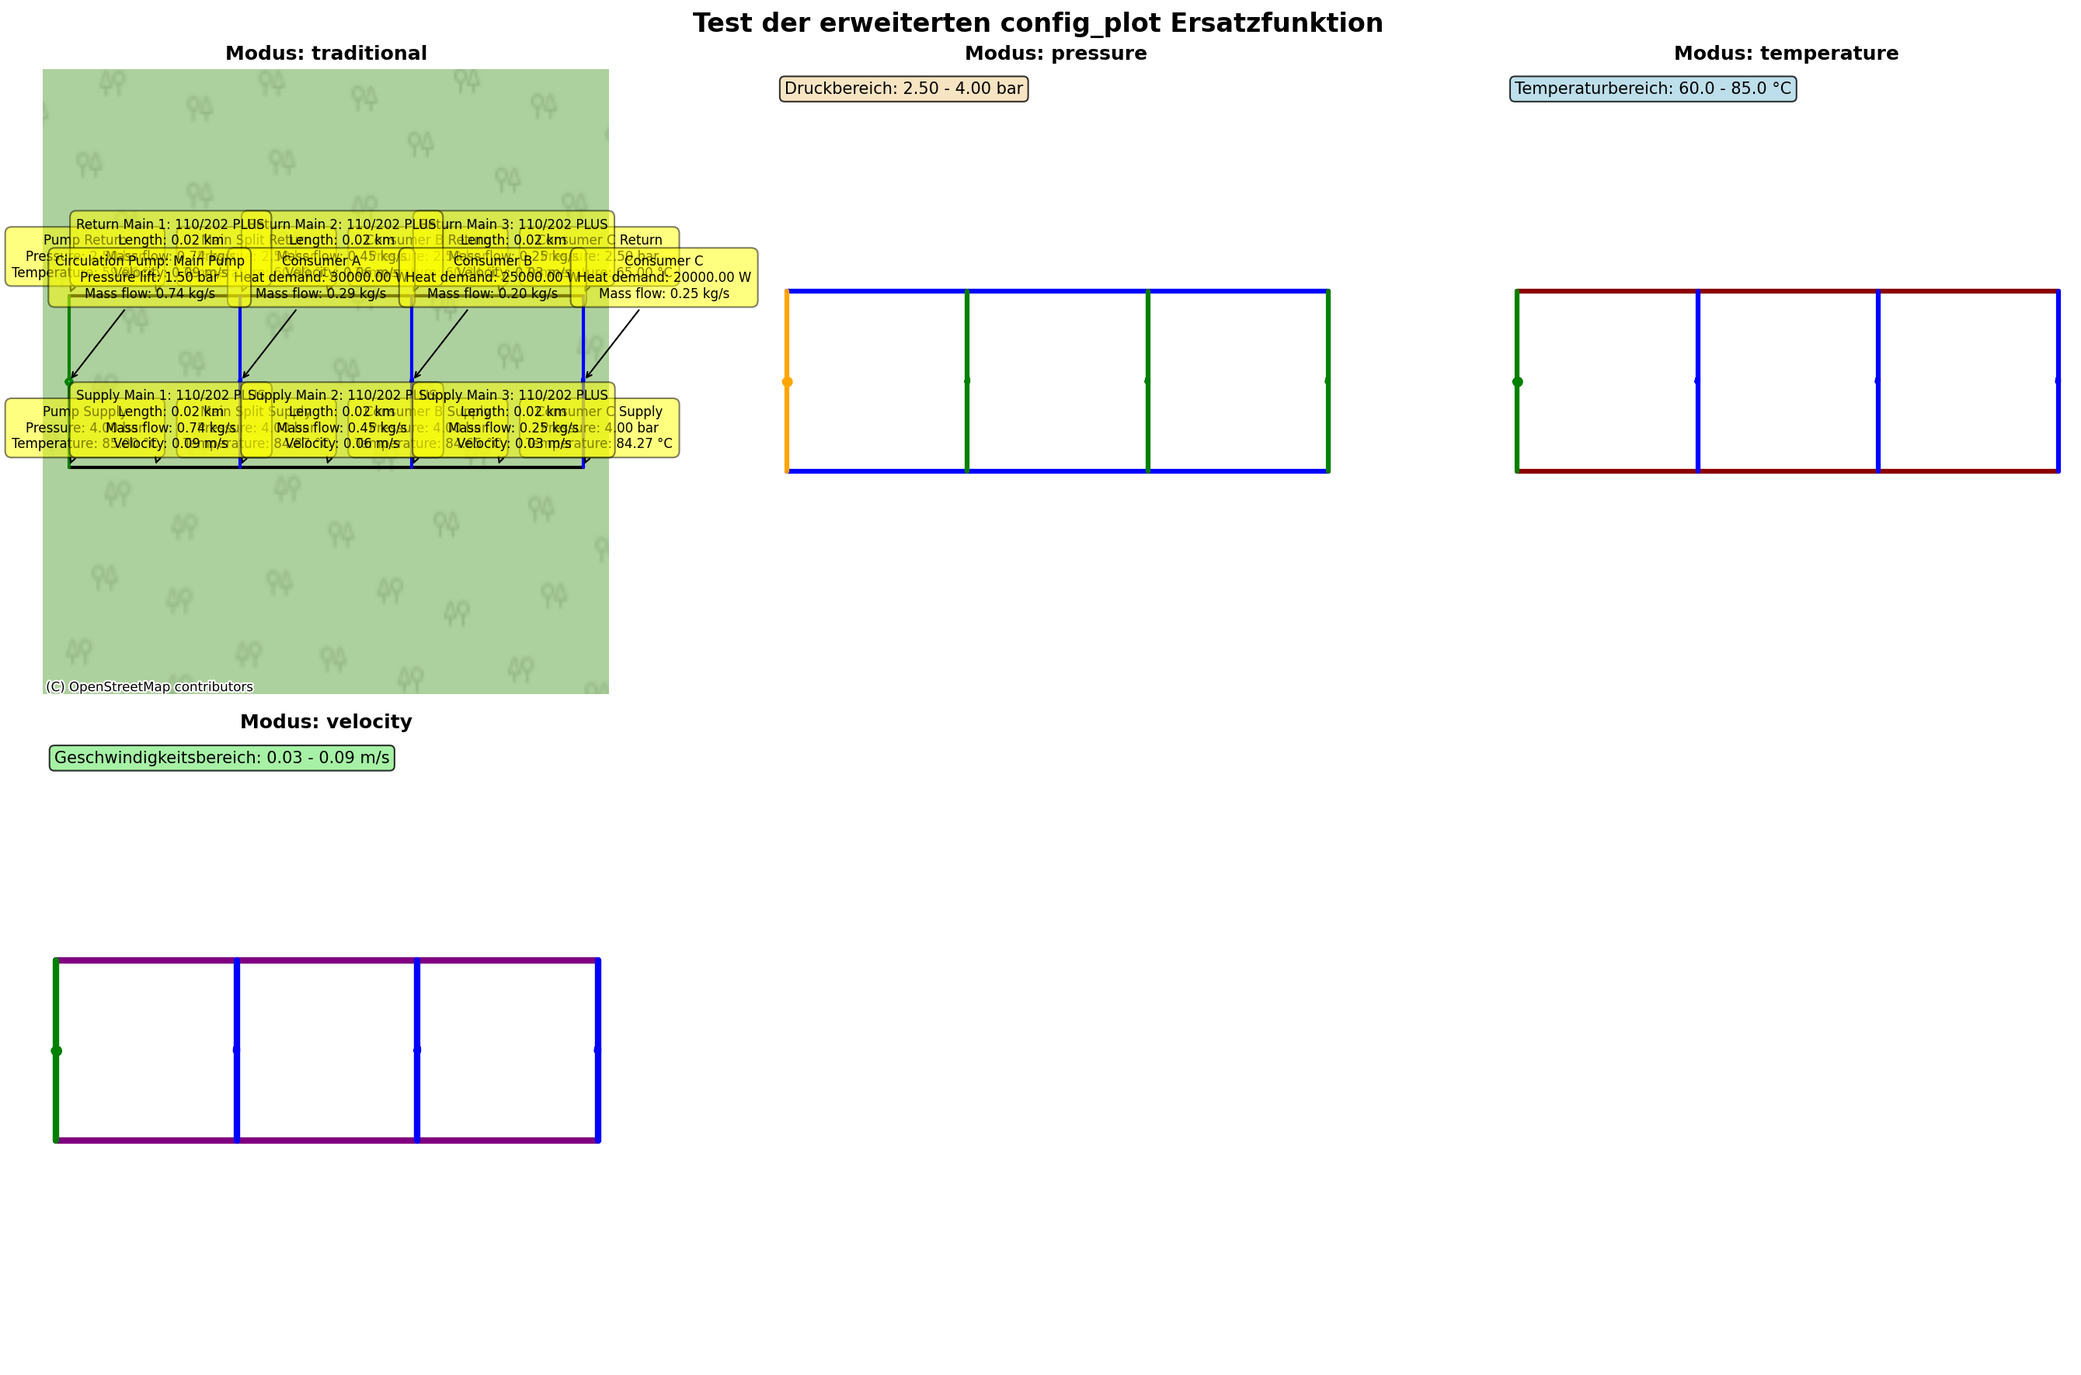
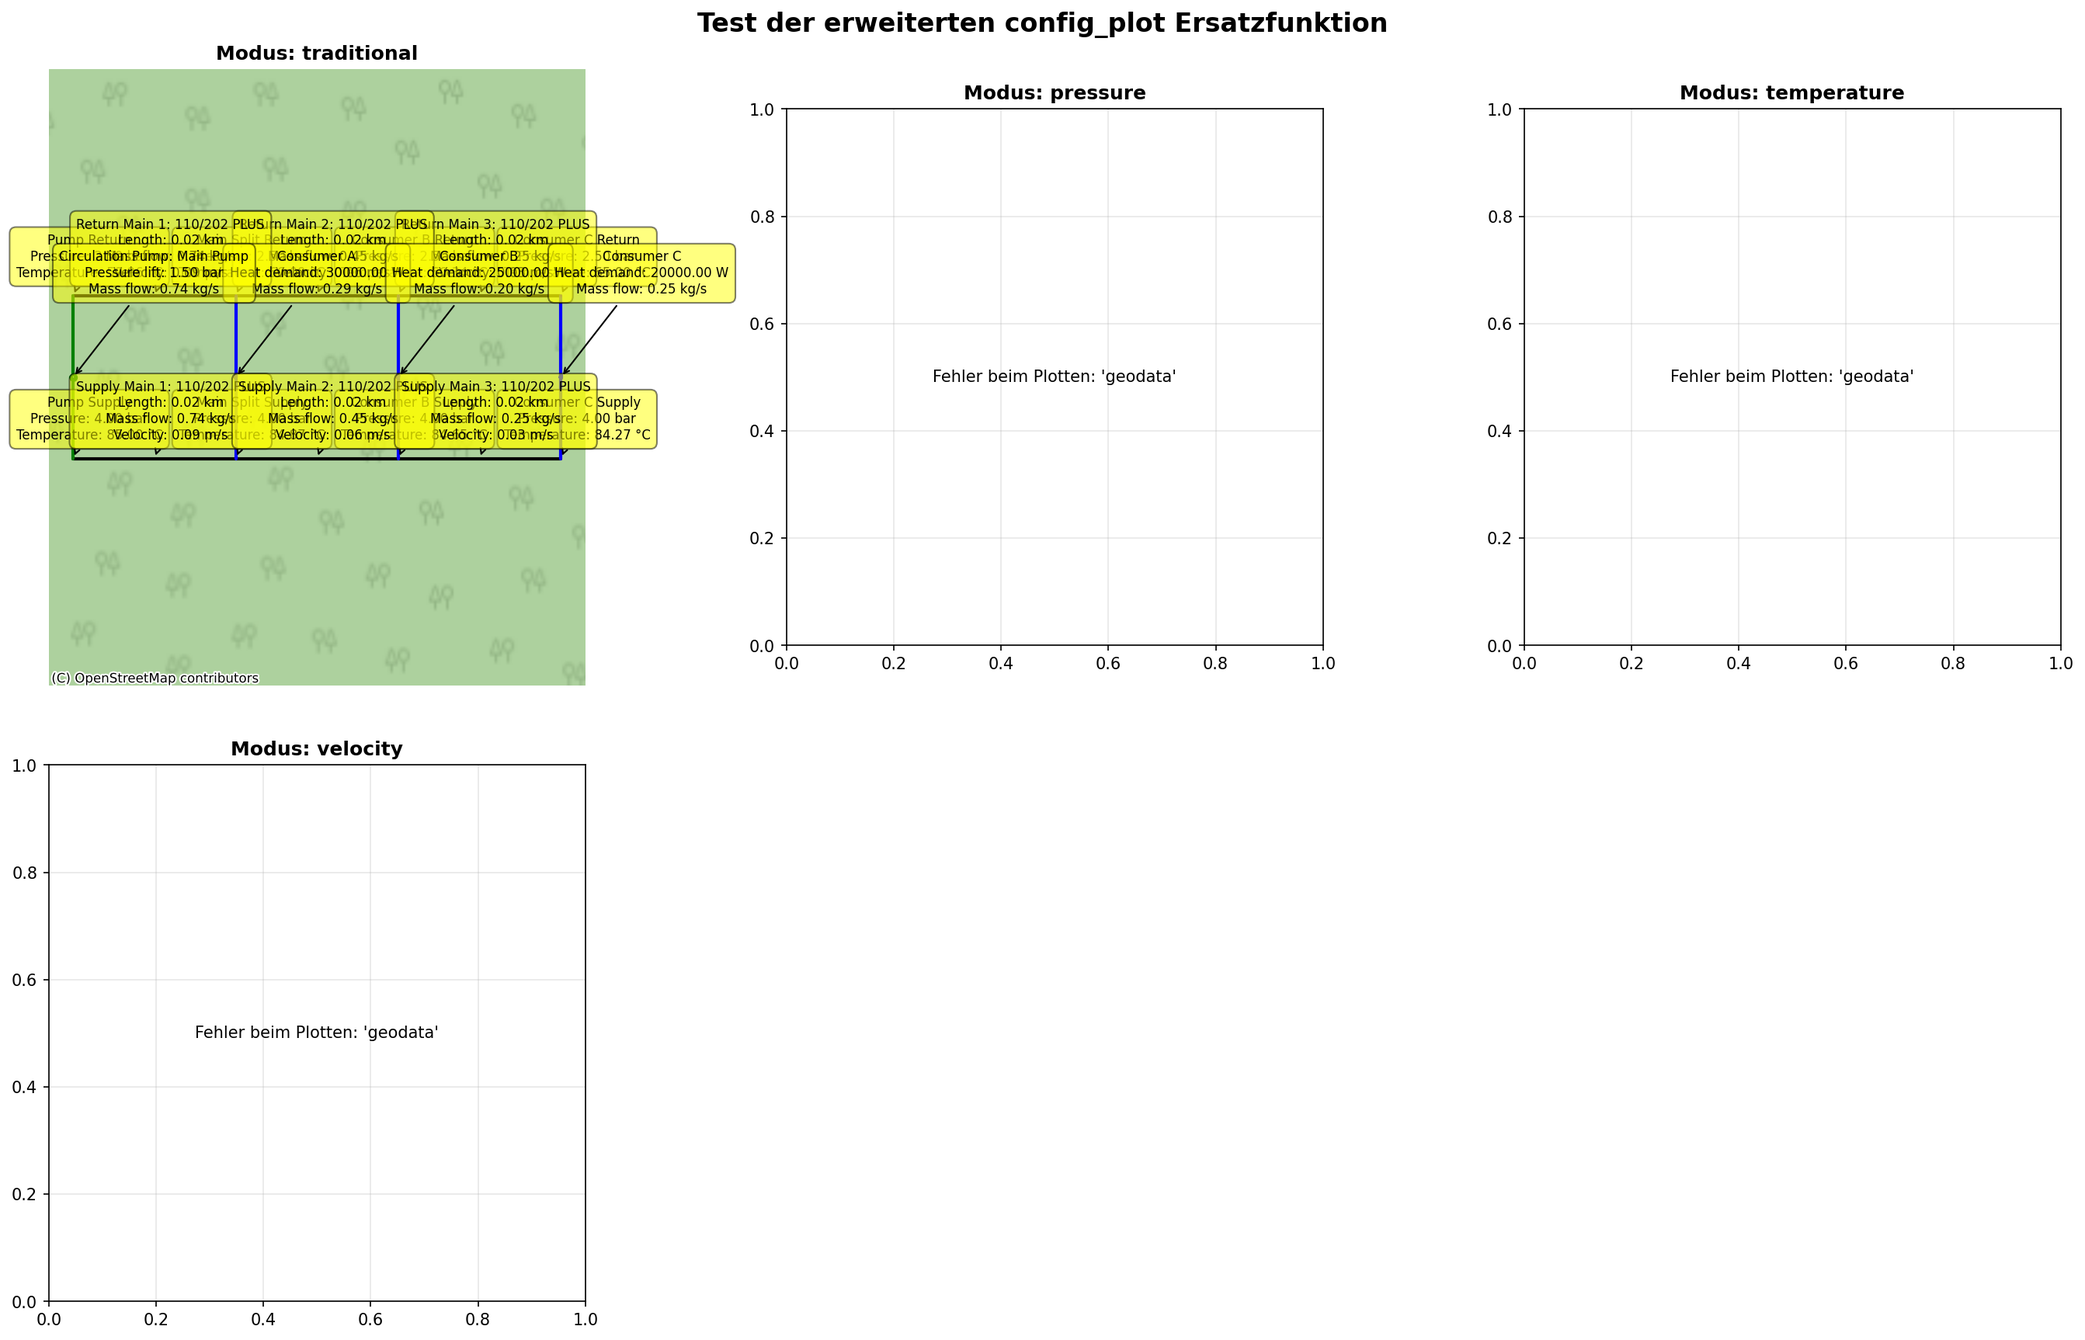
Enhance advanced plots with data-driven color mapping for pressure, temperature, and velocity visualizations

diff --git a/src/districtheatingsim/net_simulation_pandapipes/advanced_plots.py b/src/districtheatingsim/net_simulation_pandapipes/advanced_plots.py
@@ -28,7 +28,7 @@ from typing import Optional, Dict, List
 
 
 def create_pressure_plot(net, ax: Optional[plt.Axes] = None, show_colorbar: bool = True):
-    """Create a pressure-based plot with statistics."""
+    """Create a pressure-based plot with data-driven colors."""
     if ax is None:
         fig, ax = plt.subplots(figsize=(12, 8))
     
@@ -39,22 +39,79 @@ def create_pressure_plot(net, ax: Optional[plt.Axes] = None, show_colorbar: bool
         return ax
     
     try:
-        # Use simple_plot with pressure-focused colors
-        pp_plot.simple_plot(net, ax=ax, show_plot=False,
-                           junction_size=0.02, 
-                           pipe_width=3,
-                           heat_consumer_size=0.1, 
-                           pump_size=0.1,
-                           junction_color='red',  # High pressure color
-                           pipe_color='blue',
-                           heat_consumer_color='green',
-                           pump_color='orange')
+        import matplotlib.cm as cm
         
-        ax.set_title('Druckverteilung im Fernwärmenetz', fontsize=14, fontweight='bold')
+        # Get pressure data
+        pressures = net.res_junction['p_bar']
+        p_min, p_max = pressures.min(), pressures.max()
+        
+        # Create pressure colormap (blue = low, red = high)
+        pressure_cmap = cm.get_cmap('coolwarm')
+        pressure_norm = plt.Normalize(vmin=p_min, vmax=p_max)
+        
+        # Plot junctions with pressure-based colors
+        for idx, junction in net.junction.iterrows():
+            if hasattr(junction, 'geodata') and junction.geodata is not None:
+                x, y = junction.geodata
+                pressure = net.res_junction.loc[idx, 'p_bar']
+                color = pressure_cmap(pressure_norm(pressure))
+                ax.scatter(x, y, c=[color], s=100, edgecolors='black', linewidth=1, zorder=5)
+        
+        # Plot pipes with pressure gradient colors
+        if hasattr(net, 'res_pipe') and not net.res_pipe.empty:
+            for idx, pipe in net.pipe.iterrows():
+                from_geo = net.junction.loc[pipe['from_junction'], 'geodata']
+                to_geo = net.junction.loc[pipe['to_junction'], 'geodata']
+                if from_geo is not None and to_geo is not None:
+                    # Use average pressure of connected junctions
+                    p_from = net.res_junction.loc[pipe['from_junction'], 'p_bar']
+                    p_to = net.res_junction.loc[pipe['to_junction'], 'p_bar']
+                    avg_pressure = (p_from + p_to) / 2
+                    pipe_color = pressure_cmap(pressure_norm(avg_pressure))
+                    
+                    ax.plot([from_geo[0], to_geo[0]], [from_geo[1], to_geo[1]], 
+                           color=pipe_color, linewidth=4, alpha=0.8, zorder=2)
+        
+        # Plot heat consumers
+        if hasattr(net, 'heat_consumer') and len(net.heat_consumer) > 0:
+            for idx, consumer in net.heat_consumer.iterrows():
+                from_geo = net.junction.loc[consumer['from_junction'], 'geodata']
+                to_geo = net.junction.loc[consumer['to_junction'], 'geodata']
+                if from_geo is not None and to_geo is not None:
+                    mid_x = (from_geo[0] + to_geo[0]) / 2
+                    mid_y = (from_geo[1] + to_geo[1]) / 2
+                    ax.scatter(mid_x, mid_y, c='green', s=200, marker='s', 
+                             edgecolors='black', linewidth=2, zorder=6)
+        
+        # Plot pumps
+        if hasattr(net, 'circ_pump_const_pressure') and len(net.circ_pump_const_pressure) > 0:
+            for idx, pump in net.circ_pump_const_pressure.iterrows():
+                from_geo = net.junction.loc[pump['from_junction'], 'geodata']
+                to_geo = net.junction.loc[pump['to_junction'], 'geodata']
+                if from_geo is not None and to_geo is not None:
+                    mid_x = (from_geo[0] + to_geo[0]) / 2
+                    mid_y = (from_geo[1] + to_geo[1]) / 2
+                    ax.scatter(mid_x, mid_y, c='orange', s=200, marker='o', 
+                             edgecolors='black', linewidth=2, zorder=6)
+        
+        # Set axis limits
+        coords = net.junction_geodata
+        if not coords.empty:
+            margin = 5
+            ax.set_xlim(coords.x.min() - margin, coords.x.max() + margin)
+            ax.set_ylim(coords.y.min() - margin, coords.y.max() + margin)
+        
+        # Add colorbar
+        if show_colorbar and p_max > p_min:
+            sm = cm.ScalarMappable(cmap=pressure_cmap, norm=pressure_norm)
+            sm.set_array([])
+            cbar = plt.colorbar(sm, ax=ax, shrink=0.8)
+            cbar.set_label('Druck [bar]', fontsize=12)
+        
+        ax.set_title('Druckverteilung im Fernwärmenetz (datenbasiert)', fontsize=14, fontweight='bold')
         
         # Add pressure statistics
-        pressures = net.res_junction['p_bar']
-        stats_text = f'Druckbereich: {pressures.min():.2f} - {pressures.max():.2f} bar'
+        stats_text = f'Druckbereich: {p_min:.2f} - {p_max:.2f} bar'
         ax.text(0.02, 0.98, stats_text, transform=ax.transAxes, 
                 bbox=dict(boxstyle='round', facecolor='wheat', alpha=0.8),
                 verticalalignment='top')
@@ -69,7 +126,7 @@ def create_pressure_plot(net, ax: Optional[plt.Axes] = None, show_colorbar: bool
 
 
 def create_temperature_plot(net, ax: Optional[plt.Axes] = None):
-    """Create a temperature-based plot with statistics."""
+    """Create a temperature-based plot with data-driven colors."""
     if ax is None:
         fig, ax = plt.subplots(figsize=(12, 8))
     
@@ -80,22 +137,86 @@ def create_temperature_plot(net, ax: Optional[plt.Axes] = None):
         return ax
     
     try:
-        # Use simple plot with temperature-based colors
-        pp_plot.simple_plot(net, ax=ax, show_plot=False,
-                           junction_size=0.02,
-                           pipe_width=3, 
-                           heat_consumer_size=0.1,
-                           pump_size=0.1,
-                           junction_color='red',     # Hot color for supply
-                           pipe_color='darkred',     # Temperature focus
-                           heat_consumer_color='blue',  # Cold color for consumers
-                           pump_color='green')
+        import matplotlib.cm as cm
         
-        ax.set_title('Temperaturverteilung im Fernwärmenetz', fontsize=14, fontweight='bold')
+        # Get temperature data (convert to Celsius)
+        temperatures_k = net.res_junction['t_k']
+        temperatures_c = temperatures_k - 273.15
+        t_min, t_max = temperatures_c.min(), temperatures_c.max()
+        
+        # Create temperature colormap (blue = cold, red = hot)
+        temp_cmap = cm.get_cmap('plasma')
+        temp_norm = plt.Normalize(vmin=t_min, vmax=t_max)
+        
+        # Plot junctions with temperature-based colors
+        for idx, junction in net.junction.iterrows():
+            if hasattr(junction, 'geodata') and junction.geodata is not None:
+                x, y = junction.geodata
+                temp_c = net.res_junction.loc[idx, 't_k'] - 273.15
+                color = temp_cmap(temp_norm(temp_c))
+                ax.scatter(x, y, c=[color], s=100, edgecolors='black', linewidth=1, zorder=5)
+        
+        # Plot pipes with temperature gradient colors
+        if hasattr(net, 'res_pipe') and not net.res_pipe.empty:
+            for idx, pipe in net.pipe.iterrows():
+                from_geo = net.junction.loc[pipe['from_junction'], 'geodata']
+                to_geo = net.junction.loc[pipe['to_junction'], 'geodata']
+                if from_geo is not None and to_geo is not None:
+                    # Use pipe temperature data if available
+                    if 't_from_k' in net.res_pipe.columns and 't_to_k' in net.res_pipe.columns:
+                        t_from = net.res_pipe.loc[idx, 't_from_k'] - 273.15
+                        t_to = net.res_pipe.loc[idx, 't_to_k'] - 273.15
+                        avg_temp = (t_from + t_to) / 2
+                    else:
+                        # Fallback: use junction temperatures
+                        t_from = net.res_junction.loc[pipe['from_junction'], 't_k'] - 273.15
+                        t_to = net.res_junction.loc[pipe['to_junction'], 't_k'] - 273.15
+                        avg_temp = (t_from + t_to) / 2
+                    
+                    pipe_color = temp_cmap(temp_norm(avg_temp))
+                    ax.plot([from_geo[0], to_geo[0]], [from_geo[1], to_geo[1]], 
+                           color=pipe_color, linewidth=4, alpha=0.8, zorder=2)
+        
+        # Plot heat consumers (blue = cooling effect)
+        if hasattr(net, 'heat_consumer') and len(net.heat_consumer) > 0:
+            for idx, consumer in net.heat_consumer.iterrows():
+                from_geo = net.junction.loc[consumer['from_junction'], 'geodata']
+                to_geo = net.junction.loc[consumer['to_junction'], 'geodata']
+                if from_geo is not None and to_geo is not None:
+                    mid_x = (from_geo[0] + to_geo[0]) / 2
+                    mid_y = (from_geo[1] + to_geo[1]) / 2
+                    ax.scatter(mid_x, mid_y, c='blue', s=200, marker='s', 
+                             edgecolors='white', linewidth=2, zorder=6)
+        
+        # Plot pumps
+        if hasattr(net, 'circ_pump_const_pressure') and len(net.circ_pump_const_pressure) > 0:
+            for idx, pump in net.circ_pump_const_pressure.iterrows():
+                from_geo = net.junction.loc[pump['from_junction'], 'geodata']
+                to_geo = net.junction.loc[pump['to_junction'], 'geodata']
+                if from_geo is not None and to_geo is not None:
+                    mid_x = (from_geo[0] + to_geo[0]) / 2
+                    mid_y = (from_geo[1] + to_geo[1]) / 2
+                    ax.scatter(mid_x, mid_y, c='green', s=200, marker='o', 
+                             edgecolors='black', linewidth=2, zorder=6)
+        
+        # Set axis limits
+        coords = net.junction_geodata
+        if not coords.empty:
+            margin = 5
+            ax.set_xlim(coords.x.min() - margin, coords.x.max() + margin)
+            ax.set_ylim(coords.y.min() - margin, coords.y.max() + margin)
+        
+        # Add colorbar
+        if t_max > t_min:
+            sm = cm.ScalarMappable(cmap=temp_cmap, norm=temp_norm)
+            sm.set_array([])
+            cbar = plt.colorbar(sm, ax=ax, shrink=0.8)
+            cbar.set_label('Temperatur [°C]', fontsize=12)
+        
+        ax.set_title('Temperaturverteilung im Fernwärmenetz (datenbasiert)', fontsize=14, fontweight='bold')
         
         # Add temperature statistics
-        temperatures = net.res_junction['t_k'] - 273.15  # Convert to Celsius
-        stats_text = f'Temperaturbereich: {temperatures.min():.1f} - {temperatures.max():.1f} °C'
+        stats_text = f'Temperaturbereich: {t_min:.1f} - {t_max:.1f} °C'
         ax.text(0.02, 0.98, stats_text, transform=ax.transAxes,
                 bbox=dict(boxstyle='round', facecolor='lightblue', alpha=0.8),
                 verticalalignment='top')
@@ -110,7 +231,7 @@ def create_temperature_plot(net, ax: Optional[plt.Axes] = None):
 
 
 def create_velocity_plot(net, ax: Optional[plt.Axes] = None):
-    """Create a velocity-based plot for pipes with statistics."""
+    """Create a velocity-based plot with data-driven colors."""
     if ax is None:
         fig, ax = plt.subplots(figsize=(12, 8))
     
@@ -121,26 +242,85 @@ def create_velocity_plot(net, ax: Optional[plt.Axes] = None):
         return ax
     
     try:
-        # Use simple plot with velocity focus
-        pp_plot.simple_plot(net, ax=ax, show_plot=False,
-                           junction_size=0.01,
-                           pipe_width=4,
-                           heat_consumer_size=0.08,
-                           pump_size=0.08,
-                           junction_color='black',
-                           pipe_color='purple',
-                           heat_consumer_color='blue',
-                           pump_color='green')
+        import matplotlib.cm as cm
         
-        ax.set_title('Geschwindigkeitsverteilung in Rohrleitungen', fontsize=14, fontweight='bold')
+        # Plot junctions in neutral color
+        for idx, junction in net.junction.iterrows():
+            if hasattr(junction, 'geodata') and junction.geodata is not None:
+                x, y = junction.geodata
+                ax.scatter(x, y, c='black', s=80, edgecolors='gray', linewidth=1, zorder=5)
         
-        # Add velocity statistics
+        # Plot pipes with velocity-based colors
         if 'v_mean_m_per_s' in net.res_pipe.columns:
             velocities = net.res_pipe['v_mean_m_per_s']
-            stats_text = f'Geschwindigkeitsbereich: {velocities.min():.2f} - {velocities.max():.2f} m/s'
+            v_min, v_max = velocities.min(), velocities.max()
+            
+            # Create velocity colormap (green = low, red = high)
+            vel_cmap = cm.get_cmap('viridis')
+            vel_norm = plt.Normalize(vmin=v_min, vmax=v_max)
+            
+            for idx, pipe in net.pipe.iterrows():
+                from_geo = net.junction.loc[pipe['from_junction'], 'geodata']
+                to_geo = net.junction.loc[pipe['to_junction'], 'geodata']
+                if from_geo is not None and to_geo is not None:
+                    velocity = net.res_pipe.loc[idx, 'v_mean_m_per_s']
+                    pipe_color = vel_cmap(vel_norm(velocity))
+                    # Thicker lines for higher velocities
+                    line_width = 2 + (velocity / v_max) * 6
+                    ax.plot([from_geo[0], to_geo[0]], [from_geo[1], to_geo[1]], 
+                           color=pipe_color, linewidth=line_width, alpha=0.8, zorder=2)
+            
+            # Add colorbar
+            if v_max > v_min:
+                sm = cm.ScalarMappable(cmap=vel_cmap, norm=vel_norm)
+                sm.set_array([])
+                cbar = plt.colorbar(sm, ax=ax, shrink=0.8)
+                cbar.set_label('Geschwindigkeit [m/s]', fontsize=12)
+            
+            # Add velocity statistics
+            stats_text = f'Geschwindigkeitsbereich: {v_min:.3f} - {v_max:.3f} m/s'
             ax.text(0.02, 0.98, stats_text, transform=ax.transAxes,
                     bbox=dict(boxstyle='round', facecolor='lightgreen', alpha=0.8),
                     verticalalignment='top')
+        else:
+            # Fallback if no velocity data
+            for idx, pipe in net.pipe.iterrows():
+                from_geo = net.junction.loc[pipe['from_junction'], 'geodata']
+                to_geo = net.junction.loc[pipe['to_junction'], 'geodata']
+                if from_geo is not None and to_geo is not None:
+                    ax.plot([from_geo[0], to_geo[0]], [from_geo[1], to_geo[1]], 
+                           'purple', linewidth=3, alpha=0.7, zorder=1)
+        
+        # Plot heat consumers
+        if hasattr(net, 'heat_consumer') and len(net.heat_consumer) > 0:
+            for idx, consumer in net.heat_consumer.iterrows():
+                from_geo = net.junction.loc[consumer['from_junction'], 'geodata']
+                to_geo = net.junction.loc[consumer['to_junction'], 'geodata']
+                if from_geo is not None and to_geo is not None:
+                    mid_x = (from_geo[0] + to_geo[0]) / 2
+                    mid_y = (from_geo[1] + to_geo[1]) / 2
+                    ax.scatter(mid_x, mid_y, c='blue', s=150, marker='s', 
+                             edgecolors='white', linewidth=2, zorder=6)
+        
+        # Plot pumps
+        if hasattr(net, 'circ_pump_const_pressure') and len(net.circ_pump_const_pressure) > 0:
+            for idx, pump in net.circ_pump_const_pressure.iterrows():
+                from_geo = net.junction.loc[pump['from_junction'], 'geodata']
+                to_geo = net.junction.loc[pump['to_junction'], 'geodata']
+                if from_geo is not None and to_geo is not None:
+                    mid_x = (from_geo[0] + to_geo[0]) / 2
+                    mid_y = (from_geo[1] + to_geo[1]) / 2
+                    ax.scatter(mid_x, mid_y, c='orange', s=150, marker='o', 
+                             edgecolors='black', linewidth=2, zorder=6)
+        
+        # Set axis limits
+        coords = net.junction_geodata
+        if not coords.empty:
+            margin = 5
+            ax.set_xlim(coords.x.min() - margin, coords.x.max() + margin)
+            ax.set_ylim(coords.y.min() - margin, coords.y.max() + margin)
+        
+        ax.set_title('Geschwindigkeitsverteilung in Rohrleitungen (datenbasiert)', fontsize=14, fontweight='bold')
         
     except Exception as e:
         ax.text(0.5, 0.5, f'Fehler beim Plotten: {str(e)}', 
